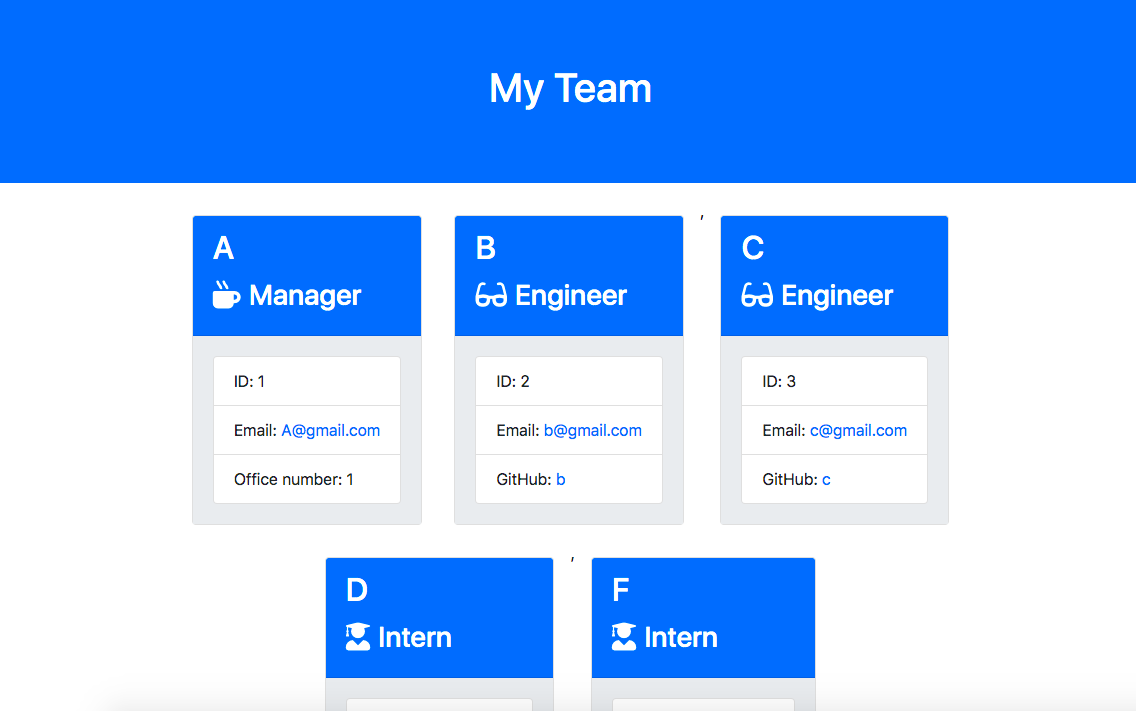
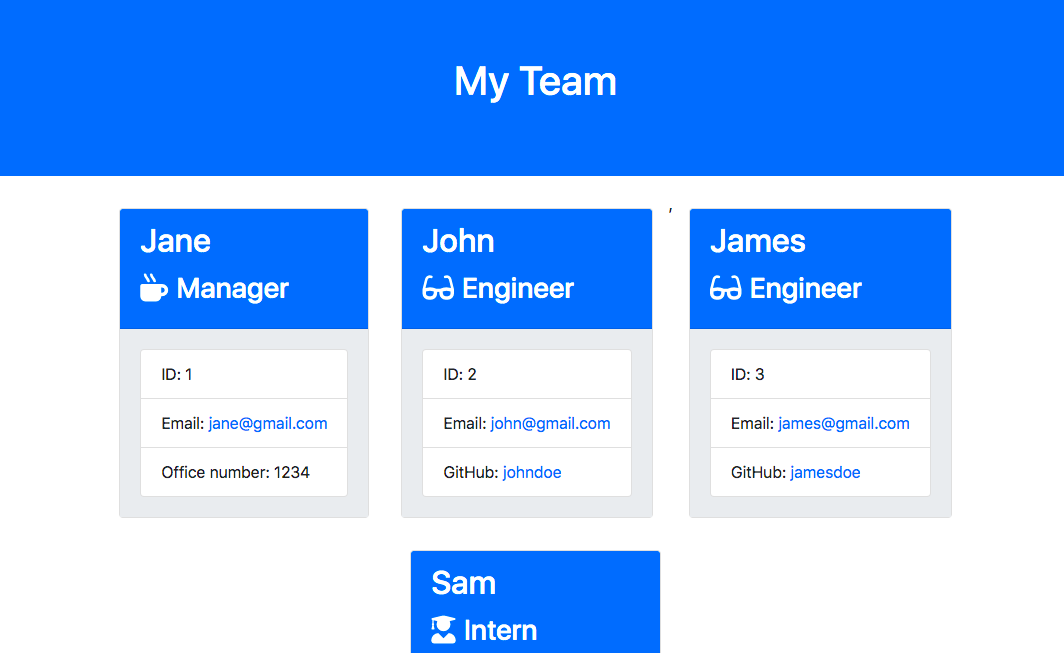
made ex team html & added screenshots

diff --git a/Develop/output/team.html b/Develop/output/team.html
@@ -39,66 +39,53 @@
         <div class="row justify-content-center">
                 <div class="card employee-card">
     <div class="card-header">
-        <h2 class="card-title">A</h2>
+        <h2 class="card-title">Jane</h2>
         <h3 class="card-title"><i class="fas fa-mug-hot mr-2"></i>Manager</h3>
     </div>
     <div class="card-body">
         <ul class="list-group">
             <li class="list-group-item">ID: 1</li>
-            <li class="list-group-item">Email: <a href="mailto:A@gmail.com">A@gmail.com</a></li>
-            <li class="list-group-item">Office number: 1</li>
+            <li class="list-group-item">Email: <a href="mailto:jane@gmail.com">jane@gmail.com</a></li>
+            <li class="list-group-item">Office number: 1234</li>
         </ul>
     </div>
 </div>
 <div class="card employee-card">
     <div class="card-header">
-        <h2 class="card-title">B</h2>
+        <h2 class="card-title">John</h2>
         <h3 class="card-title"><i class="fas fa-glasses mr-2"></i>Engineer</h3>
     </div>
     <div class="card-body">
         <ul class="list-group">
             <li class="list-group-item">ID: 2</li>
-            <li class="list-group-item">Email: <a href="mailto:b@gmail.com">b@gmail.com</a></li>
-            <li class="list-group-item">GitHub: <a href="https://github.com/b" target="_blank" rel="noopener noreferrer">b</a></li>
+            <li class="list-group-item">Email: <a href="mailto:john@gmail.com">john@gmail.com</a></li>
+            <li class="list-group-item">GitHub: <a href="https://github.com/johndoe" target="_blank" rel="noopener noreferrer">johndoe</a></li>
         </ul>
     </div>
 </div>
 ,<div class="card employee-card">
     <div class="card-header">
-        <h2 class="card-title">C</h2>
+        <h2 class="card-title">James</h2>
         <h3 class="card-title"><i class="fas fa-glasses mr-2"></i>Engineer</h3>
     </div>
     <div class="card-body">
         <ul class="list-group">
             <li class="list-group-item">ID: 3</li>
-            <li class="list-group-item">Email: <a href="mailto:c@gmail.com">c@gmail.com</a></li>
-            <li class="list-group-item">GitHub: <a href="https://github.com/c" target="_blank" rel="noopener noreferrer">c</a></li>
+            <li class="list-group-item">Email: <a href="mailto:james@gmail.com">james@gmail.com</a></li>
+            <li class="list-group-item">GitHub: <a href="https://github.com/jamesdoe" target="_blank" rel="noopener noreferrer">jamesdoe</a></li>
         </ul>
     </div>
 </div>
 <div class="card employee-card">
     <div class="card-header">
-        <h2 class="card-title">D</h2>
+        <h2 class="card-title">Sam</h2>
         <h3 class="card-title"><i class="fas fa-user-graduate mr-2"></i>Intern</h3>
     </div>
     <div class="card-body">
         <ul class="list-group">
             <li class="list-group-item">ID: 4</li>
-            <li class="list-group-item">Email: <a href="mailto:d@gmail.com">d@gmail.com</a></li>
-            <li class="list-group-item">School: D uni</li>
-        </ul>
-    </div>
-</div>
-,<div class="card employee-card">
-    <div class="card-header">
-        <h2 class="card-title">F</h2>
-        <h3 class="card-title"><i class="fas fa-user-graduate mr-2"></i>Intern</h3>
-    </div>
-    <div class="card-body">
-        <ul class="list-group">
-            <li class="list-group-item">ID: 5</li>
-            <li class="list-group-item">Email: <a href="mailto:f@gmail.com">f@gmail.com</a></li>
-            <li class="list-group-item">School: f uni</li>
+            <li class="list-group-item">Email: <a href="mailto:sam@gmail.com">sam@gmail.com</a></li>
+            <li class="list-group-item">School: UCLA</li>
         </ul>
     </div>
 </div>
